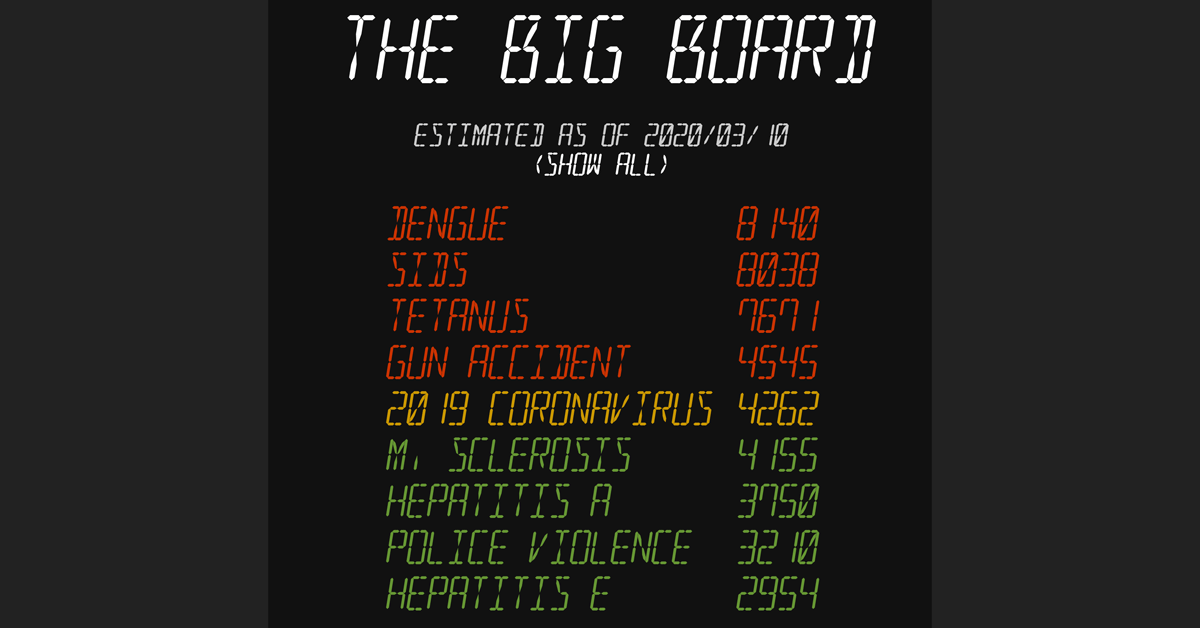
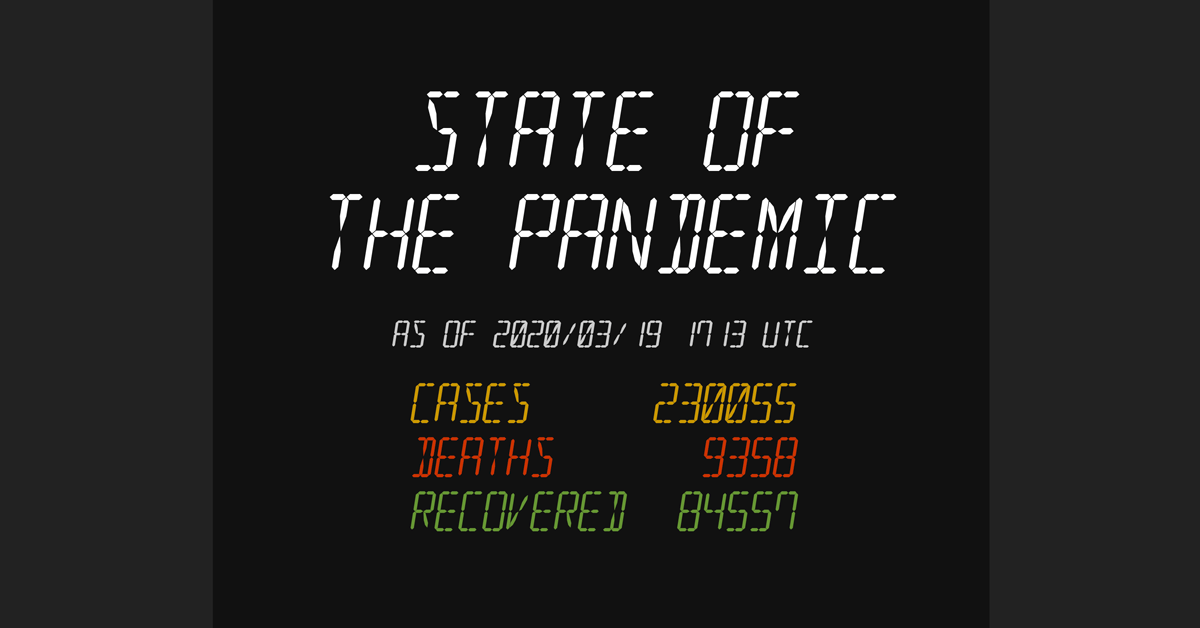
redesign/refocus

Changed region(s): [[0.2775, 0.0, 0.74, 0.9984]]

diff --git a/_includes/footer.html b/_includes/footer.html
@@ -1,8 +1,16 @@
 <footer>
   <small>
-    <p>METHODOLOGY: Year-to-date worldwide COVID-19 deaths are from <a href="https://www.arcgis.com/apps/opsdashboard/index.html#/bda7594740fd40299423467b48e9ecf6">Johns Hopkins University</a>. Worldwide deaths from other causes are from the <a href="http://ghdx.healthdata.org/gbd-2017">Global Burden of Disease Study</a>, using 2017 estimates prorated to the current point in 2020 (assuming linear growth over the course of the year).</p>
-    <p>This list is not intended to be exhaustive; I've chosen a sample that includes many familiar diseases and causes of death and omits many others. Also note that grouping has a large impact on the raw numbers; "cancer" encompasses a larger number of underlying conditions than "whooping cough".</p>
-    <p>Causes of death have been edited for length, ranging from the benign (Chronic Obstructive Pulmonary Disease ➞ COPD) to the potentially misleading (other exposure to mechanical forces ➞ crushing); both <a href="https://github.com/joeycastillo/thebigboard.cc/tree/master/_data/deaths.csv">the data driving this page</a> and <a href="https://github.com/joeycastillo/thebigboard.cc/tree/master/_data/deaths_full.csv">the original data I exported from GBD</a> are available on GitHub. </p>
+    <p>This website is updated every half hour using data from <a href="https://www.arcgis.com/apps/opsdashboard/index.html#/bda7594740fd40299423467b48e9ecf6">Johns Hopkins University</a>. Their source CSV file, which is updated throughout the day, <a href="https://opendata.arcgis.com/datasets/bbb2e4f589ba40d692fab712ae37b9ac_1.csv">can be found here</a>. I am also generating a series of machine-readable JSON files with information about the pandemic:</p>
+    <ul>
+        <li><a href="/feeds/v1/global.json">Global summary information</a>, basically the information on this page</li>
+        <li><a href="/feeds/v1/countries.json">Per-country information</a>, the same numbers but broken down by country</li>
+        <li><a href="/feeds/v1/australia.json">State and territory-level data for Australia</a></li>
+        <li><a href="/feeds/v1/canada.json">Province-level data for Canada</a></li>
+        <li><a href="/feeds/v1/china.json">Province-level data for China</a></li>
+        <li><a href="/feeds/v1/us.json">State-level data for the United States</a></li>
+    </ul>
+    <p><strong>PLEASE</strong> don't rely on this for anything serious; the real-time numbers are preliminary and the update script is triggered by a cron job running on my home internet connection.This is for hobbyist projects, not mission critical applications. For the most up-to-date data, go to <a href="https://opendata.arcgis.com/datasets/bbb2e4f589ba40d692fab712ae37b9ac_1.csv">the real-time source</a>. For the most accurate data, use <a href="https://github.com/CSSEGISandData/COVID-19">the published data sets</a>.
+    </p>
     <p>This is a single-serving side project from me, Joey, <a href="https://twitter.com/josecastillo">@josecastillo</a>. Questions / suggestions / pull requests? <a href="https://github.com/joeycastillo/thebigboard.cc">The website is on GitHub</a>.</p>
   </small>
 </footer>

diff --git a/index.html b/index.html
@@ -1,29 +1,21 @@
 ---
 layout: default
-title: "Current Standings"
+title: "State of the Pandemic"
 ---
-{% assign last_update = site.data.covid.updated | date: '%s'%}
-{% assign start_of_year = 1577836800 | times: 1.0 %}
-{% assign seconds_this_year = 29980800 | times: 1.0 %}
-{% assign seconds_so_far = last_update | minus: start_of_year %}
-{% assign percent_done = seconds_so_far | divided_by: seconds_this_year %}
-{% assign covid_displayed = false %}
-<h6>Estimated as of {{ site.data.covid.updated | date: "%Y-%m-%d" | replace: "-", "/"}}<br><a href="javascript: toggle()" id="toggle_link">(SHOW ALL)</a></h6>
+<h6>As of {{ site.data.covid.updated | date: "%Y-%m-%d %H%M" | replace: "-", "/"}} UTC</h6>
 <center>
 <table>
-{% for death in site.data.deaths %}
-{% assign deaths_so_far = death.deaths | times: percent_done | round  %}
-{% if site.data.covid.deaths > deaths_so_far and covid_displayed == false %}
-  <tr class="covid">
-    <td style="padding-right: 32px">2019 Coronavirus</td>
+  <tr class="confirmed">
+    <td style="padding-right: 32px">Cases</td>
+    <td style="text-align: right">{{ site.data.covid.confirmed }}</td>
+  </tr>
+  <tr class="deaths">
+    <td style="padding-right: 32px">Deaths</td>
     <td style="text-align: right">{{ site.data.covid.deaths }}</td>
   </tr>
-{% assign covid_displayed = true %}
-{% endif %}
-  <tr class="{% if deaths_so_far >= site.data.covid.deaths %}worse{% else %}better{% endif %}">
-    <td style="padding-right: 32px">{{ death.cause }}</td>
-    <td style="text-align: right">{{ deaths_so_far }}</td>
+  <tr class="recovered">
+    <td style="padding-right: 32px">Recovered</td>
+    <td style="text-align: right">{{ site.data.covid.recovered }}</td>
   </tr>
-{% endfor %}
 </table>
 </center>

diff --git a/_includes/original_footer.html b/_includes/original_footer.html
@@ -1,0 +1,8 @@
+<footer>
+  <small>
+    <p>METHODOLOGY: Year-to-date worldwide COVID-19 deaths are from <a href="https://www.arcgis.com/apps/opsdashboard/index.html#/bda7594740fd40299423467b48e9ecf6">Johns Hopkins University</a>. Worldwide deaths from other causes are from the <a href="http://ghdx.healthdata.org/gbd-2017">Global Burden of Disease Study</a>, using 2017 estimates prorated to the current point in 2020 (assuming linear growth over the course of the year).</p>
+    <p>This list is not intended to be exhaustive; I've chosen a sample that includes many familiar diseases and causes of death and omits many others. Also note that grouping has a large impact on the raw numbers; "cancer" encompasses a larger number of underlying conditions than "whooping cough".</p>
+    <p>Causes of death have been edited for length, ranging from the benign (Chronic Obstructive Pulmonary Disease ➞ COPD) to the potentially misleading (other exposure to mechanical forces ➞ crushing); both <a href="https://github.com/joeycastillo/thebigboard.cc/tree/master/_data/deaths.csv">the data driving this page</a> and <a href="https://github.com/joeycastillo/thebigboard.cc/tree/master/_data/deaths_full.csv">the original data I exported from GBD</a> are available on GitHub. </p>
+    <p>This is a single-serving side project from me, Joey, <a href="https://twitter.com/josecastillo">@josecastillo</a>. Questions / suggestions / pull requests? <a href="https://github.com/joeycastillo/thebigboard.cc">The website is on GitHub</a>.</p>
+  </small>
+</footer>

diff --git a/original/index.html b/original/index.html
@@ -1,0 +1,29 @@
+---
+layout: original
+title: "The Big Board"
+---
+{% assign last_update = site.data.covid.updated | date: '%s'%}
+{% assign start_of_year = 1577836800 | times: 1.0 %}
+{% assign seconds_this_year = 29980800 | times: 1.0 %}
+{% assign seconds_so_far = last_update | minus: start_of_year %}
+{% assign percent_done = seconds_so_far | divided_by: seconds_this_year %}
+{% assign covid_displayed = false %}
+<h6>Estimated as of {{ site.data.covid.updated | date: "%Y-%m-%d" | replace: "-", "/"}}<br><a href="javascript: toggle()" id="toggle_link">(SHOW ALL)</a></h6>
+<center>
+<table>
+{% for death in site.data.deaths %}
+{% assign deaths_so_far = death.deaths | times: percent_done | round  %}
+{% if site.data.covid.deaths > deaths_so_far and covid_displayed == false %}
+  <tr class="covid">
+    <td style="padding-right: 32px">2019 Coronavirus</td>
+    <td style="text-align: right">{{ site.data.covid.deaths }}</td>
+  </tr>
+{% assign covid_displayed = true %}
+{% endif %}
+  <tr class="{% if deaths_so_far >= site.data.covid.deaths %}worse{% else %}better{% endif %}">
+    <td style="padding-right: 32px">{{ death.cause }}</td>
+    <td style="text-align: right">{{ deaths_so_far }}</td>
+  </tr>
+{% endfor %}
+</table>
+</center>

diff --git a/css/main.scss b/css/main.scss
@@ -46,15 +46,15 @@ h1, h2, h3, h4, h5, h6 {
     text-align: center;
 }
 
-.worse {
+.worse, .deaths {
     color: #c30;
 }
 
-.covid {
+.covid, .confirmed {
     color: #c90;
 }
 
-.better {
+.better, .recovered {
     color: #693;
 }
 

diff --git a/_layouts/original.html b/_layouts/original.html
@@ -1,0 +1,8 @@
+---
+layout: base
+---
+{% include header.html %}
+<main>
+    {{ content }}
+</main>
+{% include original_footer.html %}

diff --git a/_includes/header.html b/_includes/header.html
@@ -1,3 +1,3 @@
 <header>
-    <h1><a href="/">{{ site.title }}</a></h1>
+    <h1><a href="/">{{ page.title }}</a></h1>
 </header>

diff --git a/README.md b/README.md
@@ -1,16 +1,23 @@
 # The Big Coronavirus Board
 
-This is a Jekyll-powered website aimed at displaying Coronavirus deaths in context, as compared to other causes of death worldwide. When I started it, the goal was to get people to take the virus seriously (because it seemed like a lot of people weren't). A week later, it seems like everyone is taking it seriously. And honestly it's unnerved me a bit to see COVID-19 climb the chart. While I worry it risks appearing insensitive, I think it serves a purpose in reminding people that the novel coronavirus is a very dangerous pathogen, and that we all have to do our part to keep it at bay. 
+This is a Jekyll-powered website aimed at sharing data about the 2019–2020 coronavirus pandemic. When I started it, it compared the number of coronavirus deaths to other causes of death worldwide, in the hopes of getting people to take the virus seriously (because it seemed like a lot of people weren't). A week later, it seems like everyone is taking it seriously. Moreover, as I've watched the death toll climb and read stories about the human toll of the pandemic, I could not in good conscience continue with the original concept.
+
+So now it merely shows the number of cases, the number of recovered patients and the number of deaths. These numbers alone show that the novel coronavirus is a very dangerous pathogen, and that we all have to do our part to keep it at bay.
+
+The more useful portion of the site is the set of data feeds that it exposes. In addition to the landing page, there are a series of JSON feeds with:
+
+* [Global summary data](http://www.thebigboard.cc/feeds/v1/global.json)
+* [Country-level data](http://www.thebigboard.cc/feeds/v1/countries.json)
+* State and territory level data for [Australia](http://www.thebigboard.cc/feeds/v1/australia.json)
+* Province-level data for [Canada](http://www.thebigboard.cc/feeds/v1/canada.json)
+* Province-level data for [China](http://www.thebigboard.cc/feeds/v1/china.json)
+* State-level data for [The United States](http://www.thebigboard.cc/feeds/v1/us.json)
+
+These static files are generated at the same time that the cron job triggers a broader site update. If you would like state or province level breakdowns for other countries, check to see if that data is available in [the source data](https://opendata.arcgis.com/datasets/bbb2e4f589ba40d692fab712ae37b9ac_1.csv) and [open an issue](https://github.com/joeycastillo/thebigboard.cc/issues).
 
 ## Architecture and Methodology
 
 A cron job runs [the update.py script](https://github.com/joeycastillo/thebigboard.cc/blob/master/scripts/update.py) every half hour, which pulls [data](https://opendata.arcgis.com/datasets/bbb2e4f589ba40d692fab712ae37b9ac_1.csv) from the Johns Hopkins real-time dashboard and places it in [a YAML file](https://github.com/joeycastillo/thebigboard.cc/blob/master/_data/covid.yml). It then pushes the update to GitHub, which triggers a CircleCI build that generates the static files and deploys them via rsync.
-
-The site uses the JHU data to generate its COVID stats. Data about other causes of death comes from the [Global Burden of Disease Study](http://ghdx.healthdata.org/gbd-2017); it's the data from 2017, the most recent year the study covered, and it prorates those annual deaths to the date of the last data update (naïvely assuming that all other causes of death grow linearly over the course of the year). 
-
-## Other Feeds
-
-In addition to the landing page, I realized that downloading and processing these statistics puts me in a position to offer useful, structured data about the pandemic. As such, I have also added a series of JSON feeds with [global summary data](http://www.thebigboard.cc/feeds/v1/global.json), [country-level data](http://www.thebigboard.cc/feeds/v1/countries.json), and state/province level data for [Australia](http://www.thebigboard.cc/feeds/v1/australia.json), [Canada](http://www.thebigboard.cc/feeds/v1/canada.json), [China](http://www.thebigboard.cc/feeds/v1/china.json) and the [United States](http://www.thebigboard.cc/feeds/v1/us.json) (the countries with detailed state and province level reporting). These static files are generated at the same time that the cron job triggers a broader site update. 
 
 ## License
 
